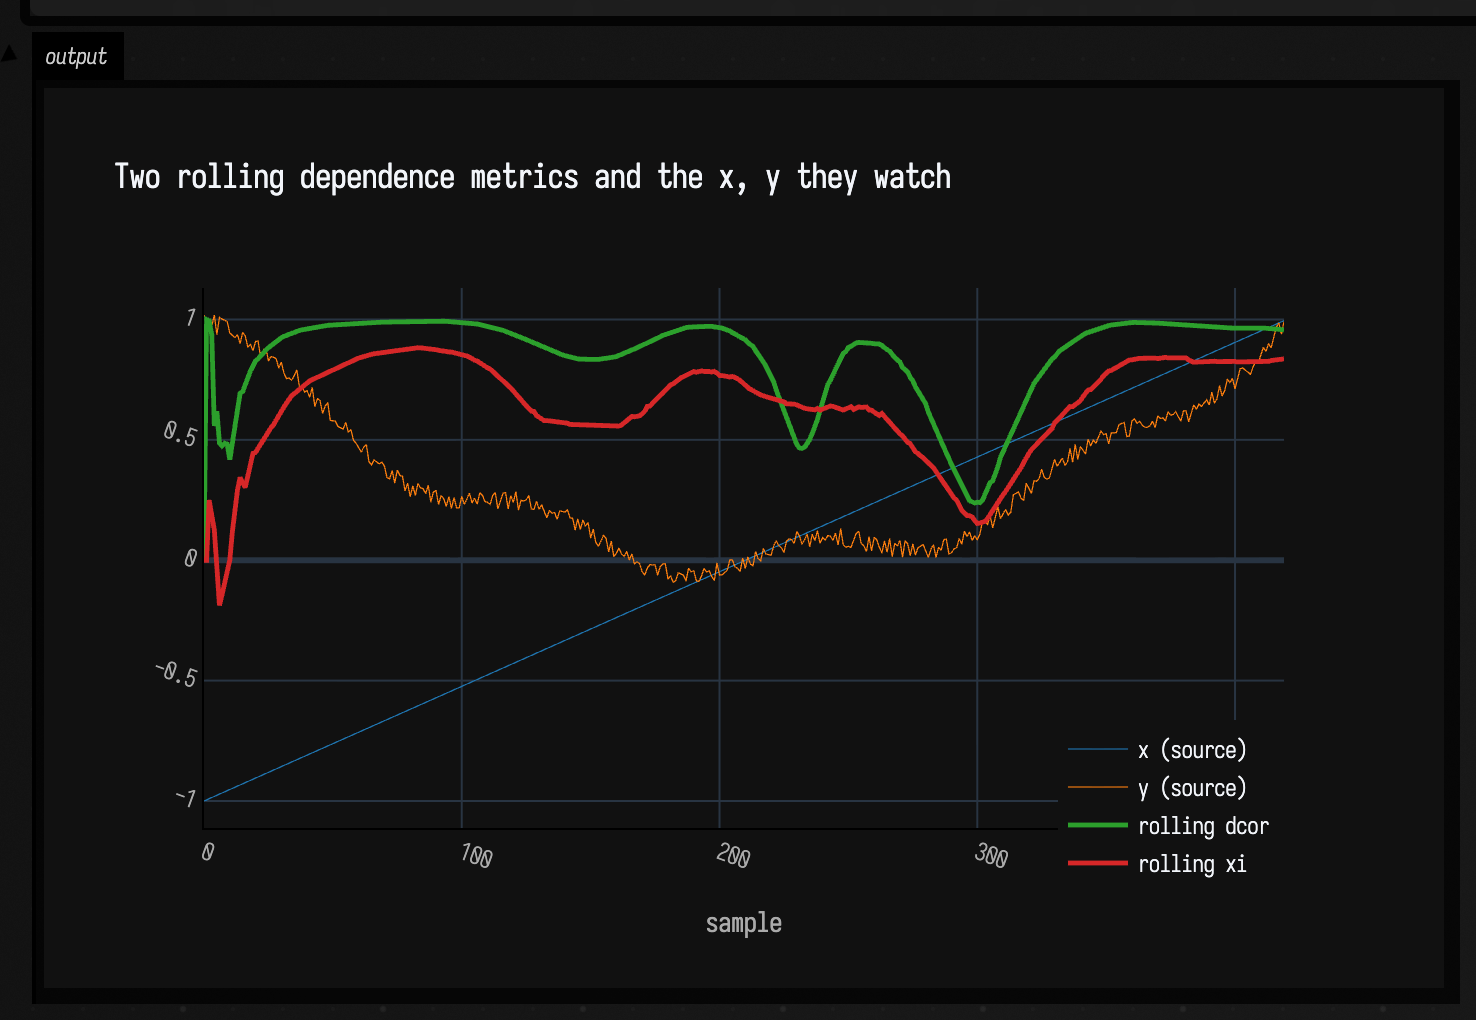
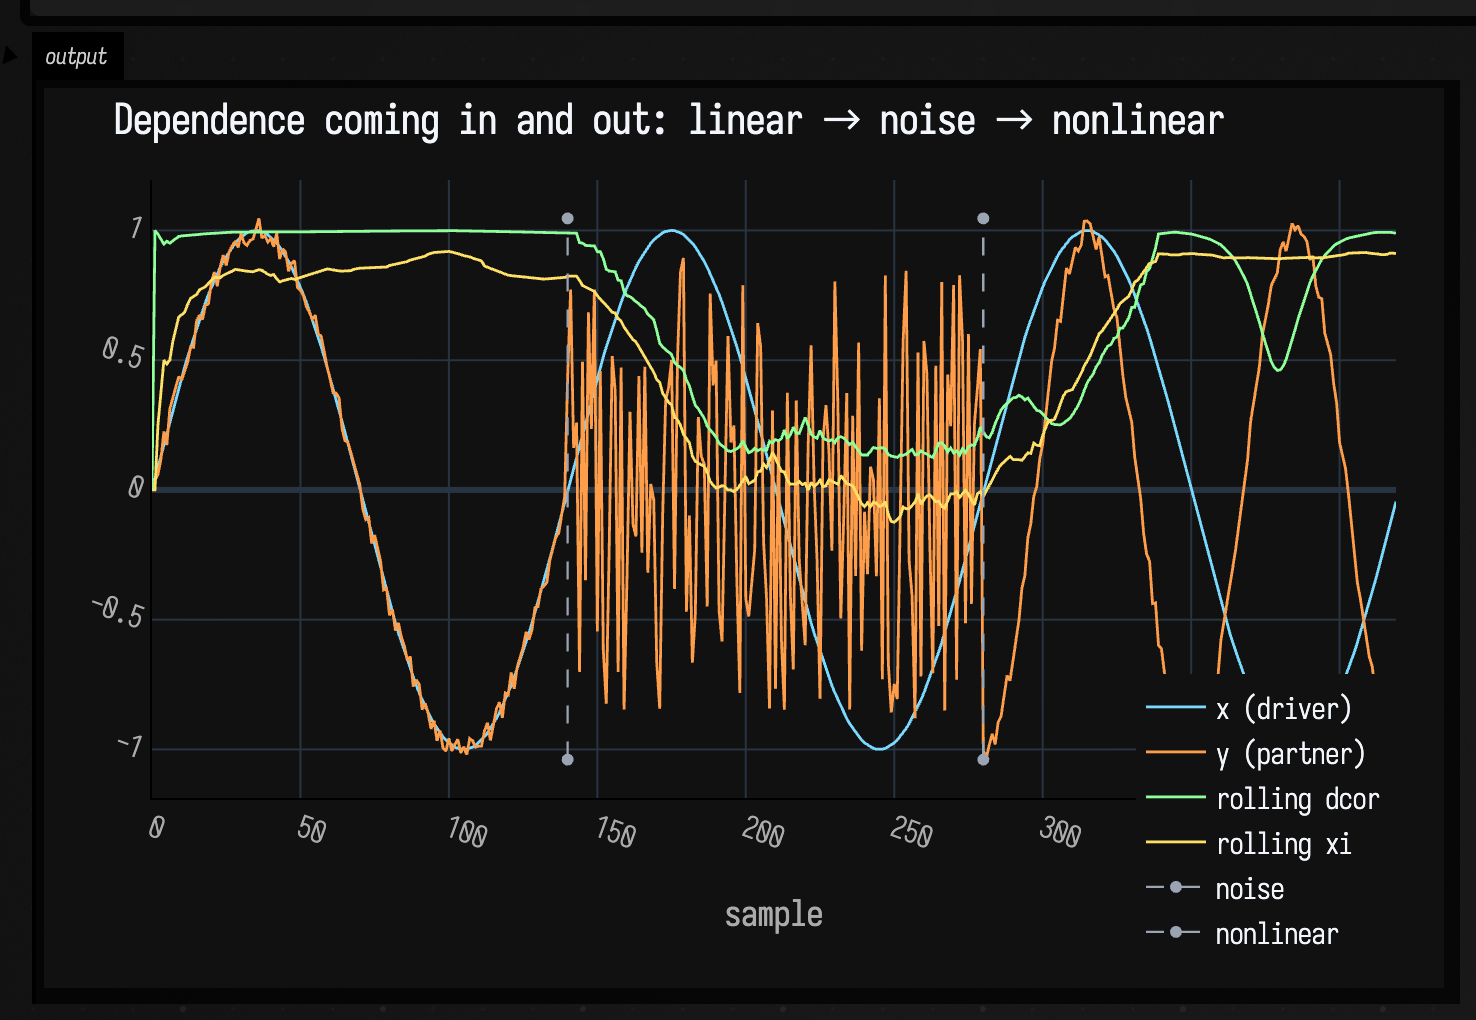
docs(interpolants): showSignals + stronger interpolant/correlation examples
Convert the two line-plot examples to showSignals and make both more compelling:

- Interpolants (was 4 monotone ease curves fanning to a fixed target): now three
  interpolants re-aiming (startAt) at a target that jumps every 60 evaluations, so
  `steps` reads as responsiveness — snappy locks on, medium arrives at the next
  jump, glacial always lags. smoothTo is a one-shot ease (start->target then
  complete), so retargeting from the current value is the correct pattern.
- Rolling correlation (was a static noisy parabola whose dependence never moved):
  now a partner signal that is linearly dependent, then independent noise, then a
  nonlinear function of the driver — so rolling dcor/xi visibly climb, collapse,
  and recover, with grey regime-boundary marks.

Add a markColor param to showSignals (default unchanged) so regime marks don't
clash with the yellow data trace. Keyframe (spatial FLine path), the duration diff,
and the scatter/bar metric profile keep their current viz. Both captures
regenerated live and eyeballed.

diff --git a/src/jvmMain/kotlin/afield/visualization/plotly.kt b/src/jvmMain/kotlin/afield/visualization/plotly.kt
@@ -99,7 +99,7 @@ val signalPalette: List<String> = listOf("#7ad9ff", "#ff9e4a", "#8fff9a", "#ffe0
  *
  * - [x]: shared x values for every series (e.g. frequency in Hz); defaults to the sample index.
  * - [marks]: vertical dashed reference lines, `"label" to xPosition` (e.g. a spectral centroid or
- *   rolloff), spanning the full y-range.
+ *   rolloff, or a regime boundary), spanning the full y-range, drawn in [markColor].
  * - [normalize]: min-max each series into `[0,1]` — use when the signals live on very different
  *   scales (e.g. a centroid in Hz alongside an RMS in `[0,1]`) and you only care about their shape.
  *
@@ -114,6 +114,7 @@ fun Box.showSignals(
     xTitle: String? = null,
     yTitle: String? = null,
     marks: List<Pair<String, Number>> = emptyList(),
+    markColor: String = "#ffe066",
     normalize: Boolean = false,
 ): Plot {
     fun shape(values: List<Number>): List<Number> {
@@ -144,7 +145,7 @@ fun Box.showSignals(
                     this.x.set(listOf(mx, mx))
                     this.y.set(listOf(ymin, ymax))
                     line.width = 1.2
-                    line.color("#ffe066")
+                    line.color(markColor)
                     line.dash = Dash.dash
                 }
             }

diff --git a/public/docs/interpolants_examples.md b/public/docs/interpolants_examples.md
@@ -4,8 +4,9 @@ Some values are supposed to *move*: a control that eases to a target instead of
 snapping, a whole parameter state morphing from one saved look to another, a
 relationship between two signals drifting as they play. This page collects the
 tools for those cases and does the one thing that makes them legible — it draws
-the motion as an `FLine` (or, for correlations, a live Plotly trace). Three
-families, one idea: a value you can *see* moving is a value you can reason about.
+the motion: a `showSignals` plot when the value is a signal over time, an `FLine`
+when the shape is spatial. Three families, one idea: a value you can *see* moving
+is a value you can reason about.
 For recovering a hidden value from noisy measurements, see
 [State estimation](state_estimation_examples.md).
 
@@ -15,53 +16,63 @@ An interpolant is a value that chases a target over a controlled number of
 evaluations rather than jumping. `smoothTo(...)` is the workhorse — opacity,
 brightness, a filter cutoff, a camera move, a gesture-derived control. The single
 knob that shapes the approach is `steps`: fewer steps arrive sooner and sharper,
-more steps settle later and softer. Drawing a *family* of them makes that shaping
-obvious at a glance:
+more steps settle later and softer. The honest way to feel that is to give three
+interpolants a target that keeps *moving* — a set-point that jumps every 60
+evaluations — and re-aim each one from wherever it currently sits (`startAt`) the
+moment the target changes. Now `steps` reads as responsiveness: the snappy one
+locks on almost immediately, the glacial one is still leaning into the last jump
+when the next one arrives.
 
-```diffstatic_runner {data-lang=kotlin screenshot="assets/interpolants_examples/smooth_family.png" wait="1.0" capture="box" open-outputs="true" name="interpolants-family"}
+```diffstatic_runner {data-lang=kotlin screenshot="assets/interpolants_examples/smooth_family.png" wait="1.5" capture="box" open-outputs="true" name="interpolants-family"}
 :::static
-import afield.graphics.FLine
 import afield.stdlib.NeedsStartingValue
 
-val stepCounts = listOf(40, 90, 150, 220)
-val samples = 240
+val n = 300
+// A target that jumps to a new set-point every 60 evaluations — the value to chase.
+val setPoints = floatArrayOf(0.20f, 0.90f, 0.35f, 0.78f, 0.15f)
+fun targetAt(i: Int) = setPoints[(i / 60).coerceAtMost(setPoints.size - 1)]
 
-fun trace(steps: Int, c: Vec4): FLine {
-    val interp = smoothTo<Float>(steps = steps) { 1.0f }
-    (interp as NeedsStartingValue<Float>).startAt(0.0f)
-    return fline {
-        for (i in 0 until samples) {
-            val v = interp()
-            val x = 60.0 + i.toDouble() / (samples - 1).toDouble() * 960.0
-            val y = 560.0 - v * 460.0
-            if (i == 0) moveTo(x, y) else lineTo(x, y)
-        }
-        color = c
-        thickness = 2.4
+var goal = setPoints[0]
+fun chaser(steps: Int) = smoothTo<Float>(steps = steps) { goal }
+    .also { (it as NeedsStartingValue<Float>).startAt(goal) }
+
+val snappy  = chaser(20)   // locks on fast
+val medium  = chaser(60)   // arrives about when the next jump lands
+val glacial = chaser(160)  // always leaning toward the last set-point
+
+val tgt = FloatArray(n); val a = FloatArray(n); val b = FloatArray(n); val c = FloatArray(n)
+var prev = goal
+for (i in 0 until n) {
+    goal = targetAt(i)
+    if (goal != prev) {
+        // Retarget: re-aim each interpolant from its current value toward the new set-point.
+        (snappy  as NeedsStartingValue<Float>).startAt(a[i - 1])
+        (medium  as NeedsStartingValue<Float>).startAt(b[i - 1])
+        (glacial as NeedsStartingValue<Float>).startAt(c[i - 1])
+        prev = goal
     }
+    tgt[i] = goal
+    a[i] = snappy(); b[i] = medium(); c[i] = glacial()
 }
 
-val palette = listOf(
-    vec(0.55, 0.92, 1.0, 0.95),
-    vec(0.55, 1.0, 0.75, 0.90),
-    vec(1.0, 0.85, 0.40, 0.90),
-    vec(1.0, 0.60, 0.40, 0.90)
+showSignals(
+    "target" to tgt.toList(),
+    "steps = 20 (snappy)" to a.toList(),
+    "steps = 60" to b.toList(),
+    "steps = 160 (glacial)" to c.toList(),
+    channel = "main",
+    title = "smoothTo re-aiming at a moving target — steps sets the responsiveness",
+    xTitle = "evaluation",
 )
-val curves = stepCounts.mapIndexed { i, s -> trace(s, palette[i]) }
-
-val target = fline { moveTo(60, 100); lineTo(1020, 100); color = vec(1,1,1,0.22); thickness = 1.0 }
-val base   = fline { moveTo(60, 560); lineTo(1020, 560); color = vec(1,1,1,0.16); thickness = 1.0 }
-
-lines(listOf(base, target) + curves, channel = "interpolants-family", w = 1080.0, h = 640.0, fitToSize = true)
 ```
 
-Each curve chases the same target (the faint upper guide) from the same start
-(the lower guide). Blue is the shortest ramp and orange the longest; every one
-climbs decisively and then flattens onto the target rather than crossing it. Read
-top to bottom, `steps` is a legibility control: pick the ramp whose settling time
-matches the gesture.
+The cyan step line is the target; the three curves re-aim at each jump. `steps = 20`
+snaps onto every set-point and holds; `steps = 60` arrives just as the next jump
+lands; `steps = 160` rounds every corner and never quite catches up before the
+target moves again. That is the whole design decision in one picture: pick the ramp
+whose settling time matches the gesture.
 
-![Four smoothTo interpolants with different step counts fanning up to a target](assets/interpolants_examples/smooth_family.png)
+![Three smoothTo interpolants with different step counts re-aiming at a jumping target](assets/interpolants_examples/smooth_family.png)
 
 ### Diff: retime interpolation by duration
 
@@ -251,41 +262,50 @@ statistic that sounds more certain than it is. Two signals can clearly belong
 together without a straight-line relationship; a rolling metric is the way to
 watch that dependence drift over time:
 
-```diffstatic_runner {data-lang=kotlin screenshot="assets/correlations_examples/rolling_dependence.png" wait="1.0" capture="box" open-outputs="true"}
+```diffstatic_runner {data-lang=kotlin screenshot="assets/correlations_examples/rolling_dependence.png" wait="1.5" capture="box" open-outputs="true"}
 :::static
-import afield.darkMode
-import space.kscience.plotly.*
+val rollingD = RollingDistanceCorrelation(windowSize = 60)
+val rollingXi = RollingXiCorrelation(windowSize = 60)
 
-val rollingD = RollingDistanceCorrelation(windowSize = 84)
-val rollingXi = RollingXiCorrelation(windowSize = 84)
-
-val t = (0 until 420).toList()
-val xs = t.map { it / 420.0 * 2.0 - 1.0 }
-val ys = t.map { i -> xs[i] * xs[i] + sin(i / 420.0 * PI * 8.0) * 0.08 + (-0.04 + random() * 0.08) }
-val dcor = t.map { rollingD.push(xs[it], ys[it]) ?: 0.0 }
-val xi = t.map { rollingXi.push(xs[it], ys[it]) ?: 0.0 }
-
-display(Plotly.plot {
-    trace { name = "x (source)"; x.set(t); y.set(xs); line.width = 0.6 }
-    trace { name = "y (source)"; x.set(t); y.set(ys); line.width = 0.6 }
-    trace { name = "rolling dcor"; x.set(t); y.set(dcor); line.width = 2.4 }
-    trace { name = "rolling xi"; x.set(t); y.set(xi); line.width = 2.4 }
-    layout {
-        title = "Two rolling dependence metrics and the x, y they watch"
-        xaxis { title = "sample" }
+// A partner signal whose relationship to the driver changes in thirds: first it tracks x
+// (linear), then it becomes independent noise, then it is a nonlinear function of x.
+val n = 420
+val xs = DoubleArray(n) { sin(it / n.toDouble() * 2.0 * PI * 3.0) }
+val ys = DoubleArray(n) { i ->
+    when {
+        i < 140 -> xs[i] + (-0.05 + random() * 0.10)                    // linear dependence
+        i < 280 -> -0.9 + random() * 1.8                               // independent noise
+        else    -> 2.0 * xs[i] * xs[i] - 1.0 + (-0.05 + random() * 0.10) // nonlinear dependence
     }
-}.darkMode())
+}
+val dcor = DoubleArray(n) { rollingD.push(xs[it], ys[it]) ?: 0.0 }
+val xi   = DoubleArray(n) { rollingXi.push(xs[it], ys[it]) ?: 0.0 }
+
+showSignals(
+    "x (driver)" to xs.toList(),
+    "y (partner)" to ys.toList(),
+    "rolling dcor" to dcor.toList(),
+    "rolling xi" to xi.toList(),
+    title = "Dependence coming in and out: linear → noise → nonlinear",
+    xTitle = "sample",
+    marks = listOf("noise" to 140, "nonlinear" to 280),
+    markColor = "#9aa4b2",
+)
 ```
 
-The two source signals `xs`/`ys` — the noisy parabola — are drawn alongside the
-metrics computed from them, so you can see what each rolling window is actually
-looking at. The same stream feeds `RollingDistanceCorrelation` and
-`RollingXiCorrelation`, and the window stays fixed across the run.
+Both source signals are drawn alongside the metrics computed from them, so you can
+see what each rolling window is actually looking at. In the first third `y` tracks
+`x`; in the second it is independent noise; in the third it is a nonlinear function
+of `x` (`y = 2x² − 1`). Both `RollingDistanceCorrelation` and `RollingXiCorrelation`
+climb on the two *dependent* stretches and collapse across the noise band — the
+dependence visibly comes and goes (the grey guides mark the regime changes), which
+a single summary number would smear into one lukewarm value.
 
-![Rolling distance-correlation and xi traces on one nonlinear stream](assets/correlations_examples/rolling_dependence.png)
+![Rolling distance-correlation and xi traces rising and falling across three dependence regimes](assets/correlations_examples/rolling_dependence.png)
 
-The two traces track the same evolving dependency without coinciding. Use this
-kind of sanity check before trusting a rolling metric on sensor streams, musical
+The two metrics rise and fall together without coinciding, and both recover on the
+*nonlinear* third where a straight-line correlation would not. Use this kind of
+sanity check before trusting a rolling metric on sensor streams, musical
 features, or exploratory data. When you instead want a fast comparison of several
 metrics on one *fixed* dataset — which one notices the shape, which punishes you
 for asking a linear question of a nonlinear cloud — plot the cloud they run on,
